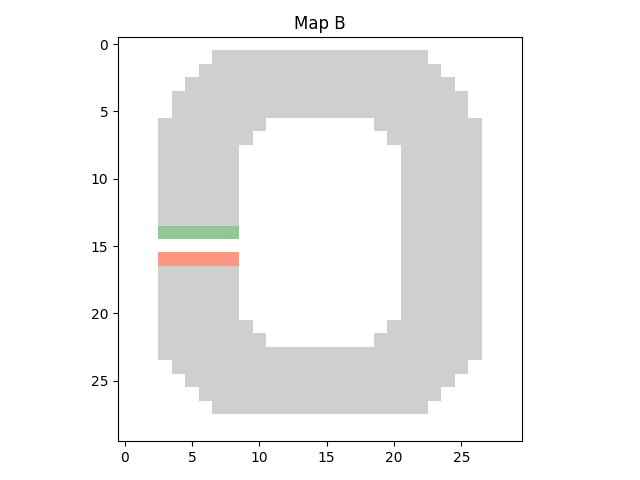
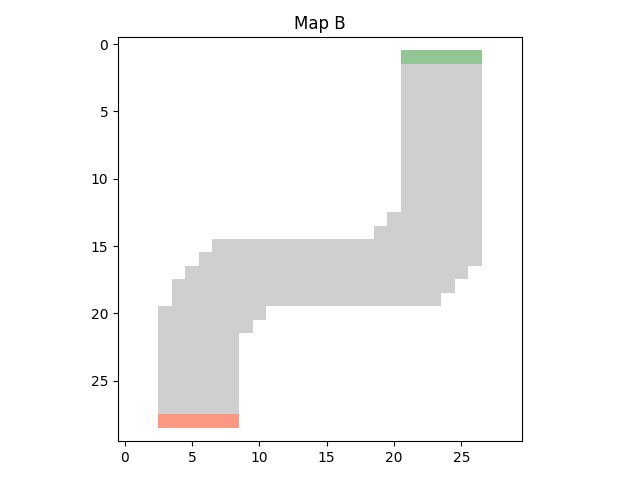
change Map b to a bottom to top layout

Changed region(s): [[0.25, 0.0938, 0.75, 0.9062]]

diff --git a/Exercise3/maps/map_b/map_b.py b/Exercise3/maps/map_b/map_b.py
@@ -10,60 +10,32 @@ FINISH = 3
 # Define an array of 30 columns and 30 rows
 track = np.full((30, 30), WALL)
 
-# Define the circle-like track
-for i in range(6, 24):
-    track[i, 3:9] = TRACK
-    track[i, 21:27] = TRACK
+track[20:28, 3:9] = TRACK
+track[18:20, 4] = TRACK
+track[17:20, 5] = TRACK
+track[16:20, 6] = TRACK
+track[15:20, 7:9] = TRACK
+track[15:22, 9] = TRACK
+track[15:21, 10] = TRACK
+track[15:20, 11:19] = TRACK
+track[2:13, 21:27] = TRACK
+track[13:17, 26] = TRACK
+track[13:18, 25] = TRACK
+track[13:19, 24] = TRACK
+track[13:20, 20:24] = TRACK
+track[14:20, 19] = TRACK
 
-# Top Left Corner
-track[4:6, 4] = TRACK
-track[3:6, 5] = TRACK
-track[2:6, 6] = TRACK
-track[1:6, 7:9] = TRACK
-track[1:8, 9] = TRACK
-track[1:7, 10] = TRACK
-track[1:6, 11:15] = TRACK
-
-# Top Right Corner
-track[4:6, 25] = TRACK
-track[3:6, 24] = TRACK
-track[2:6, 23] = TRACK
-track[1:6, 21:23] = TRACK
-track[1:8, 20] = TRACK
-track[1:7, 19] = TRACK
-track[1:6, 14:19] = TRACK
-
-# Bottom Left Corner
-track[23:25, 4] = TRACK
-track[23:26, 5] = TRACK
-track[23:27, 6] = TRACK
-track[23:28, 7:9] = TRACK
-track[21:28, 9] = TRACK
-track[22:28, 10] = TRACK
-track[23:28, 11:15] = TRACK
-
-# Bottom Right Corner
-track[23:25, 25] = TRACK
-track[23:26, 24] = TRACK
-track[23:27, 23] = TRACK
-track[23:28, 21:23] = TRACK
-track[21:28, 20] = TRACK
-track[22:28, 19] = TRACK
-track[23:28, 14:19] = TRACK
 
 # Define starting line (a horizontal line on the left)
-track[16, 3:9] = START
-
-# Define wall below the starting line
-track[15, 3:9] = WALL
+track[28, 3:9] = START
 
 # Define finishing line below the wall
-track[14, 3:9] = FINISH
+track[1, 21:27] = FINISH
 
 print(track)
 
 # Save track in npy format
-with open('track_b.npy', 'wb') as f:
+with open('./maps/saved_tracks/track_b.npy', 'wb') as f:
     np.save(f, track)
     
 # Personalized color map
